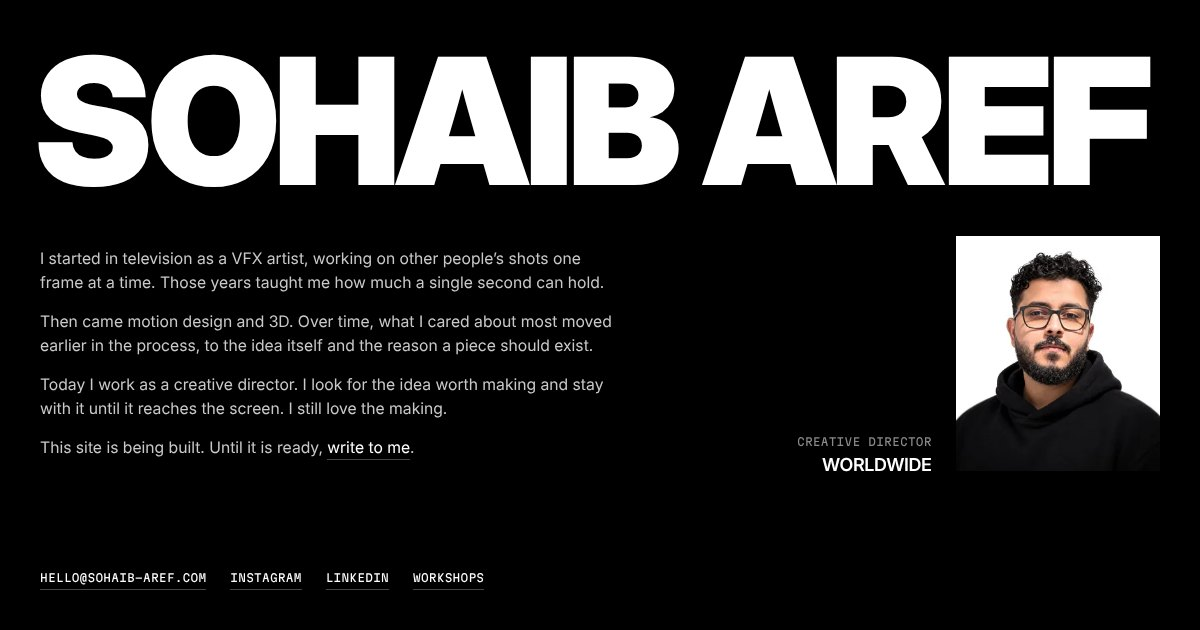
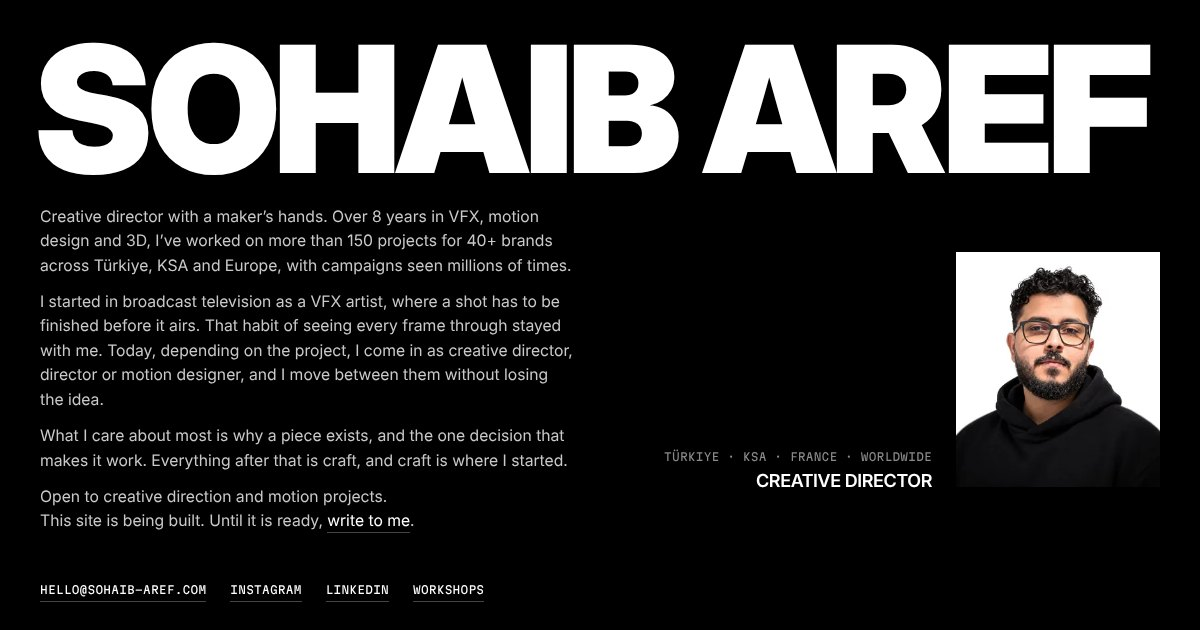
English only, new bio; name turns into region objects
Regions are plain text now. Share image updated.

Claude-Session: https://claude.ai/code/session_01B4dE4gniFDDFDunaNsmy9C

diff --git a/index.html b/index.html
@@ -4,7 +4,7 @@
 <meta charset="utf-8">
 <meta name="viewport" content="width=device-width,initial-scale=1">
 <title>Sohaib Aref, Creative Director</title>
-<meta name="description" content="Sohaib Aref is a creative director and motion artist based in Istanbul. Full site coming soon.">
+<meta name="description" content="Creative director with a maker’s hands. Over 8 years in VFX, motion design and 3D, and more than 150 projects for 40+ brands across Türkiye, KSA and Europe.">
 <script>if(!matchMedia("(prefers-reduced-motion:reduce)").matches)document.documentElement.classList.add("intro")</script>
 <link rel="canonical" href="https://sohaib-aref.com/">
 <link rel="icon" href="favicon.svg" type="image/svg+xml">
@@ -13,69 +13,47 @@
 <meta property="og:type" content="website">
 <meta property="og:url" content="https://sohaib-aref.com/">
 <meta property="og:title" content="Sohaib Aref, Creative Director">
-<meta property="og:description" content="Creative director and motion artist based in Istanbul. Full site coming soon.">
+<meta property="og:description" content="Creative director with a maker’s hands. Over 8 years in VFX, motion design and 3D, and more than 150 projects for 40+ brands across Türkiye, KSA and Europe.">
 <meta property="og:image" content="https://sohaib-aref.com/og.jpg">
 <meta property="og:image:width" content="1200">
 <meta property="og:image:height" content="630">
 <meta name="twitter:card" content="summary_large_image">
 <link rel="preload" href="fonts/inter-var.woff2" as="font" type="font/woff2" crossorigin>
-<script type="application/ld+json">{"@context":"https://schema.org","@type":"Person","name":"Sohaib Aref","jobTitle":"Creative Director","url":"https://sohaib-aref.com/","image":"https://sohaib-aref.com/img/portrait-1200.jpg","email":"mailto:hello@sohaib-aref.com","address":{"@type":"PostalAddress","addressLocality":"Istanbul","addressCountry":"TR"},"sameAs":["https://www.instagram.com/sohaib_creative/","https://www.linkedin.com/in/sohaib-creative/"]}</script>
+<script type="application/ld+json">{"@context":"https://schema.org","@type":"Person","name":"Sohaib Aref","jobTitle":"Creative Director","description":"Creative director with a maker’s hands. Over 8 years in VFX, motion design and 3D, and more than 150 projects for 40+ brands across Türkiye, KSA and Europe.","url":"https://sohaib-aref.com/","image":"https://sohaib-aref.com/img/portrait-1200.jpg","email":"mailto:hello@sohaib-aref.com","address":{"@type":"PostalAddress","addressLocality":"Istanbul","addressCountry":"TR"},"sameAs":["https://www.instagram.com/sohaib_creative/","https://www.linkedin.com/in/sohaib-creative/"]}</script>
 <style>
 @font-face{font-family:Inter;src:url(fonts/inter-var.woff2) format("woff2");font-weight:100 900;font-display:swap}
 @font-face{font-family:"Martian Mono";src:url(fonts/martian-mono-400.woff2) format("woff2");font-weight:400;font-display:swap}
-@font-face{font-family:"Noto Arabic";src:url(fonts/noto-arabic-var.woff2) format("woff2");font-weight:300 900;font-display:swap;unicode-range:U+0600-06FF,U+200C-200F}
 *{box-sizing:border-box;margin:0}
 html,body{overflow-x:clip}
-body{background:#000;color:#fff;font-family:Inter,"Noto Arabic",system-ui,sans-serif;-webkit-font-smoothing:antialiased}
+body{background:#000;color:#fff;font-family:Inter,system-ui,sans-serif;-webkit-font-smoothing:antialiased}
 .page{min-height:100vh;min-height:100dvh;display:flex;flex-direction:column;padding:40px}
 .content{flex:1;display:flex;flex-direction:column}
-.mark{font-weight:900;font-size:13.6vw;line-height:.8;letter-spacing:-.035em;text-transform:uppercase;white-space:nowrap;margin-left:-.04em;padding-top:.06em}
+.mark{position:relative;font-weight:900;font-size:13.6vw;line-height:.8;letter-spacing:-.035em;text-transform:uppercase;white-space:nowrap;margin-left:-.04em;padding-top:.06em}
 .mark .w{display:inline}
-.mark{position:relative}
 .l{position:relative;display:inline-block}
 .g{display:inline-block;backface-visibility:hidden;will-change:transform}
 .sym3d{position:absolute;pointer-events:none;z-index:2}
 .low{display:flex;justify-content:space-between;align-items:center;gap:clamp(40px,6vw,120px);margin:auto 0;padding:clamp(28px,3.5vw,56px) 0}
-.bio{font-size:clamp(15px,.9vw + 5px,21px);max-width:37em}
+.bio{font-size:clamp(15px,.9vw + 5px,21px);max-width:40em}
 .bio p{line-height:1.55;color:#c9c9c9;text-wrap:pretty}
 .bio p+p{margin-top:.9em}
 .bio .wd{white-space:nowrap}
 .bio .ch{display:inline-block;text-align:center;white-space:pre}
-.mono{font-family:"Martian Mono","Noto Arabic",ui-monospace,monospace;font-size:clamp(11px,.2vw + 8.2px,12px);letter-spacing:.02em;text-transform:uppercase;line-height:1.6}
+.mono{font-family:"Martian Mono",ui-monospace,monospace;font-size:clamp(11px,.2vw + 8.2px,12px);letter-spacing:.02em;text-transform:uppercase;line-height:1.6}
 .foot{margin-top:clamp(36px,4.5vw,64px)}
-.sr{position:absolute;width:1px;height:1px;overflow:hidden;clip-path:inset(50%);white-space:nowrap}
 .links{display:flex;gap:12px 24px;flex-wrap:wrap}
 a{color:#fff;text-decoration:none;border-bottom:1px solid #444;padding-bottom:2px;transition:border-color .3s}
 a:hover{border-color:#fff}
 a:focus-visible{outline:1px solid #fff;outline-offset:4px}
 .who{display:flex;align-items:flex-end;gap:clamp(20px,2vw,32px);flex:none}
 .who__txt{text-align:right;margin-bottom:-3px}
-.who__txt .mono{color:#8a8a8a;margin-bottom:6px}
-.who__name{font-size:20px;font-weight:600;letter-spacing:-.02em;text-transform:uppercase;line-height:1}
+.where{list-style:none;padding:0;color:#8a8a8a;margin-bottom:6px}
+.where li{display:inline;white-space:nowrap}
+.where li+li::before{content:"·";margin:0 .7em}
+.role{font-size:clamp(18px,1.45vw,24px);font-weight:600;letter-spacing:-.02em;text-transform:uppercase;line-height:1;white-space:nowrap}
 .frame{width:clamp(180px,17vw,300px);aspect-ratio:13/15;background:#000;overflow:hidden}
 .frame picture{display:contents}
 .frame img{display:block;width:100%;height:100%;object-fit:cover;object-position:50% 12%}
-
-[lang="ar"] .bio{direction:rtl;text-align:right;font-family:"Noto Arabic",Inter,sans-serif}
-[lang="ar"] .bio p{font-size:1.07em;line-height:1.8}
-[lang="ar"] .who__txt .mono{font-family:"Noto Arabic",sans-serif;font-size:13px;letter-spacing:0;line-height:1.35}
-.place{position:relative;display:flex;justify-content:flex-end}
-.place button{font:inherit;color:#fff;background:none;border:0;padding:0;cursor:pointer;font-size:clamp(18px,1.45vw,24px);font-weight:600;letter-spacing:-.02em;text-transform:uppercase;line-height:1;display:flex;align-items:center;justify-content:flex-end;gap:10px;white-space:nowrap}
-.place__menu{position:absolute;bottom:100%;right:0;z-index:2;display:flex;flex-direction:column;align-items:flex-end;gap:0;padding:14px 0 8px 24px;background:none;visibility:hidden;pointer-events:none}
-.place__opt{padding:5px 0!important;color:#7a7a7a!important;opacity:0;transform:translateY(6px);transition:opacity .25s,transform .5s cubic-bezier(.16,1,.3,1),color .2s}
-.place__opt:hover,.place__opt:focus-visible{color:#fff!important}
-.place:hover .place__menu,.place:focus-within .place__menu,.place.is-open .place__menu{visibility:visible;pointer-events:auto}
-.place:hover .place__opt,.place:focus-within .place__opt,.place.is-open .place__opt{opacity:1;transform:none}
-.place__opt:nth-of-type(4){transition-delay:0s}.place__opt:nth-of-type(3){transition-delay:.04s}.place__opt:nth-of-type(2){transition-delay:.08s}.place__opt:nth-of-type(1){transition-delay:.12s}
-.place__opt[hidden]{display:none}
-.roll{display:inline-block;overflow:hidden;vertical-align:bottom;padding:.25em 0;margin:-.25em 0;white-space:nowrap}
-.roll__in{display:inline-block;will-change:transform}
-.place i{font:400 10px "Martian Mono",monospace;letter-spacing:.02em;color:#919191}
-.place.is-peek .place__menu{visibility:visible}
-.who__txt>.mono{transition:opacity .35s cubic-bezier(.16,1,.3,1)}
-@media (min-width:811px) and (min-aspect-ratio:4/5),(min-width:1101px){.who__txt:has(.place:hover,.place:focus-within,.place.is-open)>.mono{opacity:0}}
-.place button:focus-visible{outline:1px solid #fff;outline-offset:4px}
-@media (prefers-reduced-motion:reduce){.place__opt,.who__txt>.mono{transition:none}}
 
 /* intro on load: everything comes into focus */
 @keyframes focus{0%{opacity:0;filter:blur(var(--b));transform:translateY(var(--y,0)) scale(var(--s,1))}55%{opacity:1}100%{opacity:1;filter:blur(0);transform:none}}
@@ -91,10 +69,6 @@ html.intro.go .mark .l,html.intro.go .bio p,html.intro.go .frame,html.intro.go .
 html.intro-done .mark .l,html.intro-done .bio p,html.intro-done .frame,html.intro-done .frame img,html.intro-done .who__txt,html.intro-done .foot{animation:none}
 @media (max-width:810px),(max-width:1100px) and (max-aspect-ratio:4/5){
   .who__txt{margin-bottom:0}
-  .place{flex-direction:column;align-items:flex-start}
-  .place button{justify-content:flex-start}
-  .place__menu{position:static;visibility:visible;pointer-events:auto;flex-direction:row;flex-wrap:wrap;align-items:center;gap:0 16px;padding:10px 0 0;background:none}
-  .place__opt{opacity:1;transform:none;font-size:12px!important;font-weight:500!important;letter-spacing:0!important;gap:6px!important;padding:6px 0!important;color:#8a8a8a!important}
   .page{padding:20px 20px 28px}
   .foot{margin-top:44px}
   .mark{font-size:23.4vw;white-space:normal}
@@ -103,6 +77,19 @@ html.intro-done .mark .l,html.intro-done .bio p,html.intro-done .frame,html.intr
   .who{justify-content:space-between}
   .who__txt{text-align:left;order:0}
   .frame{width:min(42%,220px)}
+}
+/* laptops with short screens: the same layout, tighter rhythm, so it still fits in one view */
+@media (min-width:811px) and (min-aspect-ratio:4/5) and (max-height:880px){
+  .low{padding:clamp(14px,2.4vh,30px) 0}
+  .foot{margin-top:clamp(22px,3.6vh,40px)}
+  .bio p+p{margin-top:.75em}
+}
+@media (min-width:811px) and (min-aspect-ratio:4/5) and (max-height:700px){.page{padding-top:28px;padding-bottom:28px}}
+@media (max-width:599px){
+  .where{margin-bottom:10px}
+  .where li{display:block}
+  .where li+li::before{content:none}
+  .role{white-space:normal}
 }
 @media (min-width:600px) and (max-width:1100px) and (max-aspect-ratio:4/5){
   .page{padding:40px}
@@ -115,29 +102,21 @@ html.intro-done .mark .l,html.intro-done .bio p,html.intro-done .frame,html.intr
 <body>
 <div class="page">
   <main class="content">
-  <h1 class="mark" data-fit lang="en" aria-label="Sohaib Aref"><span class="w" aria-hidden="true"><span class="l" style="--i:0"><span class="g">S</span></span><span class="l" style="--i:1"><span class="g">o</span></span><span class="l" style="--i:2"><span class="g">h</span></span><span class="l" style="--i:3"><span class="g">a</span></span><span class="l" style="--i:4"><span class="g">i</span></span><span class="l" style="--i:5"><span class="g">b</span></span></span> <span class="w" aria-hidden="true"><span class="l" style="--i:6"><span class="g">A</span></span><span class="l" style="--i:7"><span class="g">r</span></span><span class="l" style="--i:8"><span class="g">e</span></span><span class="l" style="--i:9"><span class="g">f</span></span></span></h1>
+  <h1 class="mark" data-fit aria-label="Sohaib Aref"><span class="w" aria-hidden="true"><span class="l" style="--i:0"><span class="g">S</span></span><span class="l" style="--i:1"><span class="g">o</span></span><span class="l" style="--i:2"><span class="g">h</span></span><span class="l" style="--i:3"><span class="g">a</span></span><span class="l" style="--i:4"><span class="g">i</span></span><span class="l" style="--i:5"><span class="g">b</span></span></span> <span class="w" aria-hidden="true"><span class="l" style="--i:6"><span class="g">A</span></span><span class="l" style="--i:7"><span class="g">r</span></span><span class="l" style="--i:8"><span class="g">e</span></span><span class="l" style="--i:9"><span class="g">f</span></span></span></h1>
   <div class="low">
     <section class="bio" data-bio>
-      <p>I started in television as a VFX artist, working on other people’s shots one frame at a time. Those years taught me how much a single second can hold.</p>
-      <p>Then came motion design and 3D. Over time, what I cared about most moved earlier in the process, to the idea itself and the reason a piece should exist.</p>
-      <p>Today I work as a creative director. I look for the idea worth making and stay with it until it reaches the screen. I still love the making.</p>
-      <p class="cta">This site is being built. Until it is ready, <a href="mailto:hello@sohaib-aref.com">write to me</a>.</p>
+      <p>Creative director with a maker’s hands. Over 8 years in VFX, motion design and 3D, I’ve worked on more than 150 projects for 40+ brands across Türkiye, KSA and Europe, with campaigns seen millions of times.</p>
+      <p>I started in broadcast television as a VFX artist, where a shot has to be finished before it airs. That habit of seeing every frame through stayed with me. Today, depending on the project, I come in as creative director, director or motion designer, and I move between them without losing the idea.</p>
+      <p>What I care about most is why a piece exists, and the one decision that makes it work. Everything after that is craft, and craft is where I started.</p>
+      <p class="cta">Open to creative direction and motion projects.<br>This site is being built. Until it is ready, <a href="mailto:hello@sohaib-aref.com">write to me</a>.</p>
     </section>
     <div class="who">
-      <div class="who__txt"><p class="mono"><span class="roll"><span class="roll__in" data-role>Creative Director</span></span></p><div class="place" data-place lang="en">
-          <button type="button" class="place__cur" data-cur aria-haspopup="true"><span class="roll"><span class="roll__in" data-cur-t>Worldwide</span></span><span class="sr">, change region and language</span></button>
-          <div class="place__menu">
-            <button type="button" class="place__opt" data-loc="en" hidden><i>EN</i>Worldwide</button>
-            <button type="button" class="place__opt" data-loc="tr"><i>TR</i>Istanbul</button>
-            <button type="button" class="place__opt" data-loc="ar"><i>AR</i>Gulf</button>
-            <button type="button" class="place__opt" data-loc="fr"><i>FR</i>France</button>
-          </div>
-        </div></div>
+      <div class="who__txt"><ul class="mono where"><li>Türkiye</li><li>KSA</li><li>France</li><li>Worldwide</li></ul><p class="role">Creative Director</p></div>
       <div class="frame"><picture><source type="image/webp" srcset="img/portrait-320.webp 320w, img/portrait-480.webp 480w, img/portrait-960.webp 960w" sizes="(max-width:810px) 40vw, (max-width:1100px) and (max-aspect-ratio:4/5) 300px, 220px"><img src="img/portrait-480.jpg" srcset="img/portrait-480.jpg 480w, img/portrait-1200.jpg 1200w" sizes="(max-width:810px) 40vw, (max-width:1100px) and (max-aspect-ratio:4/5) 300px, 220px" width="1200" height="1499" alt="Portrait of Sohaib Aref"></picture></div>
     </div>
   </div>
   </main>
-  <footer class="foot" lang="en"><p class="mono links"><a href="mailto:hello@sohaib-aref.com">hello@sohaib-aref.com</a><a href="https://www.instagram.com/sohaib_creative/" target="_blank" rel="noopener">Instagram</a><a href="https://www.linkedin.com/in/sohaib-creative/" target="_blank" rel="noopener">LinkedIn</a><a href="workshops.html">Workshops</a></p></footer>
+  <footer class="foot"><p class="mono links"><a href="mailto:hello@sohaib-aref.com">hello@sohaib-aref.com</a><a href="https://www.instagram.com/sohaib_creative/" target="_blank" rel="noopener">Instagram</a><a href="https://www.linkedin.com/in/sohaib-creative/" target="_blank" rel="noopener">LinkedIn</a><a href="workshops.html">Workshops</a></p></footer>
 </div>
 <script>
 (function(){
@@ -155,121 +134,11 @@ html.intro-done .mark .l,html.intro-done .bio p,html.intro-done .frame,html.intr
 })();
 </script>
 <script>
-(function(){
-  var T={"en": {"place": "Worldwide", "role": "Creative Director", "p": ["I started in television as a VFX artist, working on other people’s shots one frame at a time. Those years taught me how much a single second can hold.", "Then came motion design and 3D. Over time, what I cared about most moved earlier in the process, to the idea itself and the reason a piece should exist.", "Today I work as a creative director. I look for the idea worth making and stay with it until it reaches the screen. I still love the making."], "cta": ["This site is being built. Until it is ready, ", "write to me", "."]}, "tr": {"place": "Istanbul", "role": "Kreatif Direktör", "p": ["Televizyonda VFX sanatçısı olarak başladım. Başkalarının çekimleri üzerinde kare kare çalıştım. O yıllar bana tek bir saniyeye ne kadar çok şey sığabileceğini öğretti.", "Ardından motion tasarım ve 3D geldi. Zamanla ilgim sürecin en başına, fikrin kendisine ve bir işin neden yapılması gerektiğine kaydı.", "Bugün kreatif direktör olarak çalışıyorum. Yapılmaya değer fikri bulup ekrana çıkana kadar peşini bırakmıyorum. Üretmeyi hâlâ çok seviyorum."], "cta": ["Bu site hazırlanıyor. Hazır olana kadar ", "bana yazabilirsiniz", "."]}, "ar": {"place": "Gulf", "role": "مدير إبداعي", "p": ["بدأتُ في التلفزيون فنّانَ مؤثرات بصرية، أشتغل على لقطات الآخرين إطارًا بعد إطار. هناك فهمت كم تتّسع الثانية الواحدة.", "ثم انتقلت إلى الموشن جرافيك والتصميم ثلاثي الأبعاد. ومع الوقت صار اهتمامي يسبق التنفيذ، إلى الفكرة نفسها ولماذا يستحق العمل أن يُصنع أصلًا.", "اليوم أعمل مديرًا إبداعيًا. أبحث عن الفكرة التي تستحق أن تُصنع، وأبقى معها حتى تصل إلى الشاشة. وما زلت أحب الصنعة نفسها."], "cta": ["الموقع قيد الإعداد. إلى أن يكتمل، ", "راسلني", "."]}, "fr": {"place": "France", "role": "Directeur de création", "p": ["J’ai commencé à la télévision, comme artiste VFX. Je reprenais les plans des autres, image par image. C’est là que j’ai compris tout ce qu’une seconde peut contenir.", "Puis sont venus le motion design et la 3D. Avec le temps, ce qui m’intéresse le plus s’est déplacé vers l’amont : l’idée elle-même, et la raison d’être d’un projet.", "Aujourd’hui, je suis directeur de création. Je cherche l’idée qui mérite d’exister, puis je l’accompagne jusqu’à l’écran. J’aime toujours autant fabriquer."], "cta": ["Ce site est en préparation. D’ici là, ", "écrivez-moi", "."]}};
-  var root=document.documentElement,box=document.querySelector('[data-place]'),cur=box.querySelector('[data-cur]'),
-      bio=document.querySelector('[data-bio]'),role=document.querySelector('[data-role]'),ps=bio.querySelectorAll('p'),now='en';
-  var reduce=matchMedia('(prefers-reduced-motion:reduce)').matches,E='cubic-bezier(.16,1,.3,1)';
-  var run=0,curT=box.querySelector('[data-cur-t]');
-  function roll(inner,to){
-    var mask=inner.parentNode;
-    inner.getAnimations().concat(mask.getAnimations()).forEach(function(a){a.cancel()});
-    if(reduce){inner.textContent=to;return}
-    var id=run,w0=mask.getBoundingClientRect().width;
-    inner.animate([{transform:'translateY(0)'},{transform:'translateY(-120%)'}],{duration:260,easing:'cubic-bezier(.7,0,.84,0)',fill:'forwards'}).finished.then(function(){
-      if(id!==run)return;
-      inner.getAnimations().forEach(function(a){a.cancel()});
-      inner.textContent=to;
-      var w1=mask.getBoundingClientRect().width;
-      mask.animate([{width:w0+'px'},{width:w1+'px'}],{duration:600,easing:E});
-      inner.animate([{transform:'translateY(120%)'},{transform:'translateY(0)'}],{duration:800,easing:E});
-    },function(){});
-  }
-  function apply(l){
-    root.lang=l;
-    T[l].p.forEach(function(t,i){ps[i].textContent=t;ps[i].removeAttribute('data-t')});
-    var c=T[l].cta,cp=ps[3],a=document.createElement('a');a.href='mailto:hello@sohaib-aref.com';a.textContent=c[1];
-    cp.textContent='';cp.append(c[0],a,c[2]);
-    if(window.__bioSplit)window.__bioSplit();
-  }
-  function menu(l){
-    box.querySelectorAll('.place__opt').forEach(function(b){b.hidden=(b.dataset.loc===l)});
-  }
-  function clear(){[].forEach.call(ps,function(p){p.getAnimations().forEach(function(a){a.cancel()})})}
-  function set(l){
-    if(l===now)return;now=l;var id=++run;
-    menu(l);roll(role,T[l].role);roll(curT,T[l].place);
-    clear();
-    if(reduce){apply(l);return}
-    var outs=[].map.call(ps,function(p,i){
-      return p.animate([{opacity:1,transform:'translateY(0)',filter:'blur(0)'},{opacity:0,transform:'translateY(-18px)',filter:'blur(8px)'}],{duration:320,delay:i*45,easing:'cubic-bezier(.7,0,.84,0)',fill:'forwards'}).finished;
-    });
-    Promise.all(outs).then(function(){
-      if(id!==run)return;
-      clear();apply(l);
-      [].forEach.call(ps,function(p,i){
-        p.animate([{opacity:0,transform:'translateY(28px)',filter:'blur(10px)'},{opacity:1,transform:'translateY(0)',filter:'blur(0)'}],{duration:1100,delay:i*90,easing:E,fill:'backwards'});
-      });
-    },function(){});
-  }
-  box.addEventListener('click',function(e){
-    var b=e.target.closest('button');if(!b)return;
-    if(b===cur){box.classList.toggle('is-open');return}
-    set(b.dataset.loc);box.classList.remove('is-open');b.blur();
-  });
-  document.addEventListener('click',function(e){if(!box.contains(e.target))box.classList.remove('is-open')});
-  document.addEventListener('keydown',function(e){if(e.key==='Escape'&&(box.classList.contains('is-open')||box.contains(document.activeElement))){box.classList.remove('is-open');if(box.contains(document.activeElement))document.activeElement.blur()}});
-  // a hint that the region opens: when the pointer comes near, the list rises part of the way and settles back
-  (function(){
-    if(reduce||!matchMedia('(hover:hover) and (pointer:fine)').matches)return;
-    var menu=box.querySelector('.place__menu'),label=box.parentNode.querySelector('.mono'),anim=[],armed=true,last=-1e9,rect=null;
-    var EASE='cubic-bezier(.45,0,.2,1)',D=1900;
-    function inline(){return getComputedStyle(menu).position==='static'}
-    function busy(){return box.matches(':hover')||box.classList.contains('is-open')||box.contains(document.activeElement)}
-    function clear(commit){
-      anim.forEach(function(a){if(commit){try{a.commitStyles()}catch(e){}}a.cancel()});anim=[];
-      box.classList.remove('is-peek');
-    }
-    function peek(){
-      if(inline()||busy())return;
-      clear(false);box.classList.add('is-peek');
-      var opts=[].filter.call(box.querySelectorAll('.place__opt'),function(o){return !o.hidden}).reverse();
-      opts.forEach(function(o,i){
-        anim.push(o.animate([{opacity:0,transform:'translateY(9px)'},{opacity:.42,transform:'translateY(3px)',offset:.4},{opacity:.42,transform:'translateY(3px)',offset:.56},{opacity:0,transform:'translateY(9px)'}],{duration:D,delay:i*90,easing:EASE}));
-      });
-      anim.push(label.animate([{opacity:1},{opacity:0,offset:.2},{opacity:0,offset:.8},{opacity:1}],{duration:D+(opts.length-1)*90,easing:EASE}));
-      var mine=anim.slice();
-      Promise.all(mine.map(function(a){return a.finished})).then(function(){if(anim[0]===mine[0]){anim=[];box.classList.remove('is-peek')}},function(){});
-    }
-    document.addEventListener('mousemove',function(e){
-      if(!rect)rect=cur.getBoundingClientRect();
-      var dx=Math.max(rect.left-e.clientX,0,e.clientX-rect.right),dy=Math.max(rect.top-e.clientY,0,e.clientY-rect.bottom),d=Math.sqrt(dx*dx+dy*dy);
-      if(d<120&&armed&&performance.now()-last>2600){armed=false;last=performance.now();peek()}
-      else if(d>240)armed=true;
-    },{passive:true});
-    addEventListener('resize',function(){rect=null});addEventListener('scroll',function(){rect=null},{passive:true});
-    // reaching for it mid-hint: hand over to the real opening from exactly where the hint is
-    box.addEventListener('pointerenter',function(){
-      if(!anim.length)return;
-      var els=[].slice.call(box.querySelectorAll('.place__opt')).concat(label);
-      clear(true);
-      els.forEach(function(el){el.style.transition='none'});
-      void box.offsetWidth;
-      els.forEach(function(el){el.style.transition='';el.style.opacity='';el.style.transform=''});
-    });
-  })();
-
-})();
-</script>
-
-<script>
+// the bio swells in weight under the pointer, letter by letter
 (function(){
   if(!matchMedia('(hover:hover) and (pointer:fine)').matches||matchMedia('(prefers-reduced-motion:reduce)').matches)return;
   var bio=document.querySelector('[data-bio]'),C=[],dirty=true,mx=-1e4,my=-1e4,run=false,R=66,fs='',rz;
-  var AR='400 16px "Noto Arabic"';
-  // Arabic: each letter (with its marks) gets its own box; zero-width joiners keep the letters connected across boxes
-  function arWord(w){
-    var Z='\u200D',cl=Array.from(w),i=0,g=[],M=/[\u064B-\u065F\u0670\u06D6-\u06ED]/,
-        R=/[\u0622-\u0625\u0627\u0629\u062F-\u0632\u0648\u0671]/,D=/[\u0626\u0628\u062A-\u062E\u0633-\u063A\u0640-\u0647\u0649\u064A\u06A9\u06AF\u06CC]/,A=/[\u0622\u0623\u0625\u0627]/;
-    while(i<cl.length){var s=cl[i++];
-      if(s==='\u0644'){var j=i;while(j<cl.length&&M.test(cl[j]))j++;if(j<cl.length&&A.test(cl[j])){s=cl.slice(i-1,j+1).join('');i=j+1}}
-      while(i<cl.length&&M.test(cl[i]))s+=cl[i++];g.push(s)}
-    var t=g.map(function(s){var c=s.charAt(0);return s.length>1&&c==='\u0644'&&A.test(s.charAt(s.length-1))?'R':D.test(c)?'D':R.test(c)?'R':'U'});
-    return g.map(function(s,k){return (k>0&&t[k-1]==='D'&&t[k]!=='U'?Z:'')+s+(k<g.length-1&&t[k]==='D'&&t[k+1]!=='U'?Z:'')});
-  }
   function split(){
-    var ar=document.documentElement.lang==='ar';
-    if(ar&&document.fonts&&!document.fonts.check(AR,'\u0628')){document.fonts.load(AR,'\u0628').then(split,function(){});C=[];return}
     C=[];
     var made=[];
     fs=getComputedStyle(bio).fontSize;
@@ -278,7 +147,7 @@ html.intro-done .mark .l,html.intro-done .bio p,html.intro-done .frame,html.intr
       var words=src.split(' ');p.textContent='';
       words.forEach(function(w,i){
         var wd=document.createElement('span');wd.className='wd';
-        (ar?arWord(w):Array.from(w)).forEach(function(c){var s=document.createElement('span');s.className='ch';s.textContent=c;wd.appendChild(s);made.push(s)});
+        Array.from(w).forEach(function(c){var s=document.createElement('span');s.className='ch';s.textContent=c;wd.appendChild(s);made.push(s)});
         p.appendChild(wd);if(i<words.length-1)p.appendChild(document.createTextNode(' '));
       });
     });
@@ -309,17 +178,14 @@ html.intro-done .mark .l,html.intro-done .bio p,html.intro-done .frame,html.intr
   document.addEventListener('mouseleave',function(){mx=my=-1e4;go()});
   addEventListener('resize',function(){dirty=true;clearTimeout(rz);rz=setTimeout(function(){if(getComputedStyle(bio).fontSize!==fs)split()},160)});
   addEventListener('introdone',function(){dirty=true});
-  window.__bioSplit=split;
   if(document.fonts&&document.fonts.ready)document.fonts.ready.then(split);else split();
 })();
 </script>
 <script>
 (function(){
-  var n=0;function go(){if(++n===2)setTimeout(function(){import("./js/sym3d.js?v=7")},400)}
+  var n=0;function go(){if(++n===2)setTimeout(function(){import("./js/sym3d.js?v=8")},400)}
   addEventListener("load",go);
   if(document.documentElement.classList.contains("intro"))addEventListener("introdone",go);else go();
-  // the Arabic font loads quietly so the switch to Gulf is instant
-  addEventListener("load",function(){setTimeout(function(){document.fonts&&document.fonts.load('400 16px "Noto Arabic"','\u0628')},3500)});
 })();
 </script>
 <script>
